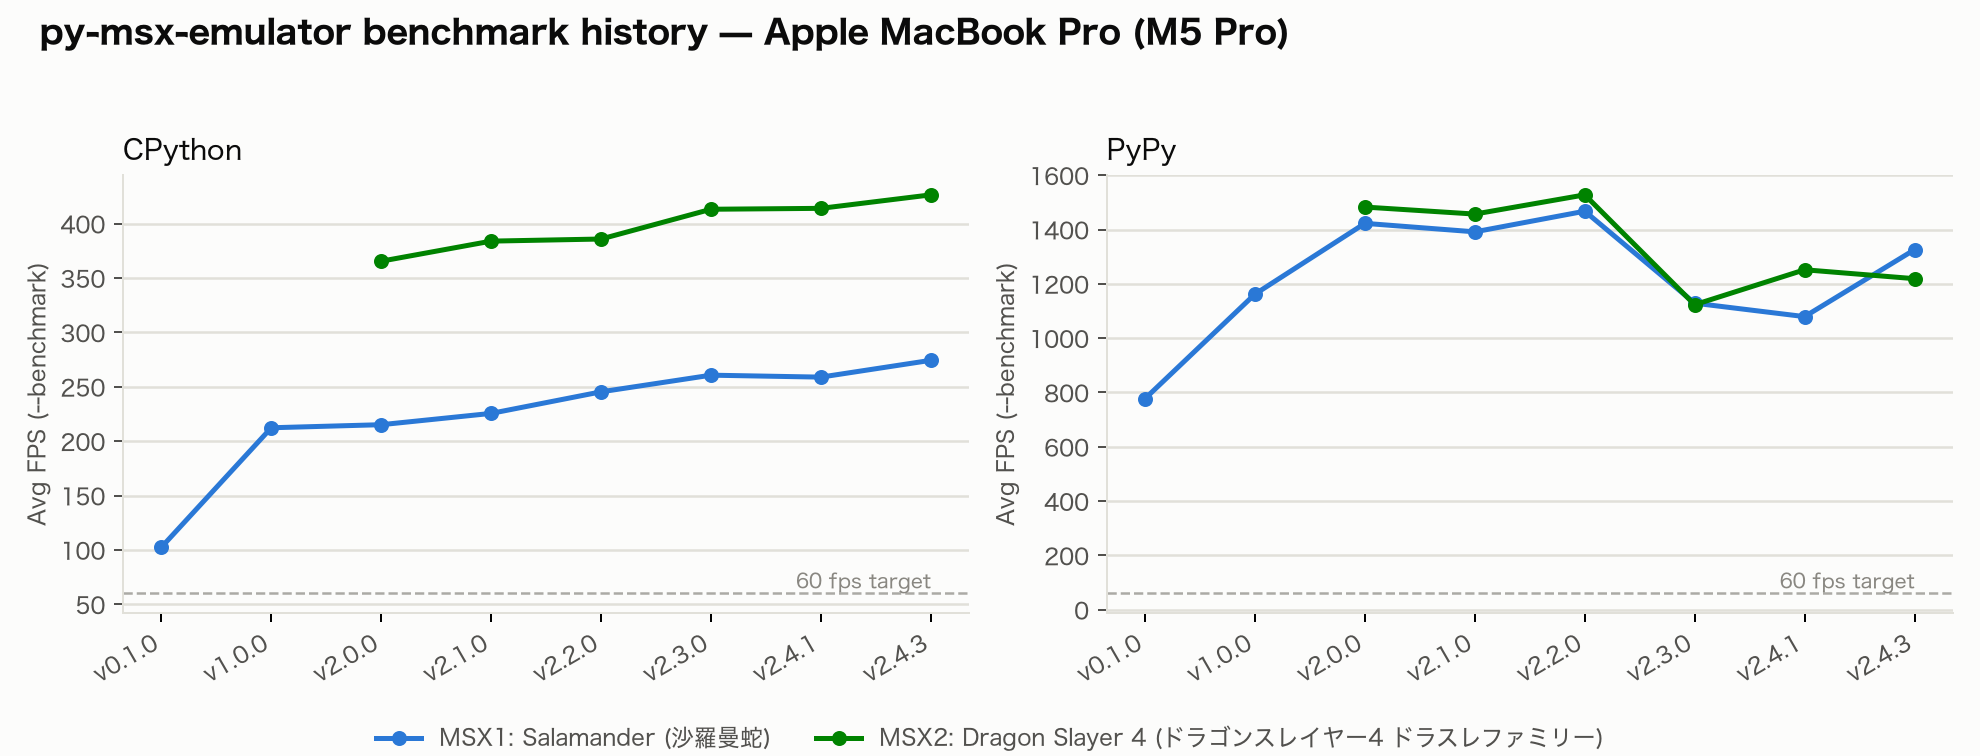
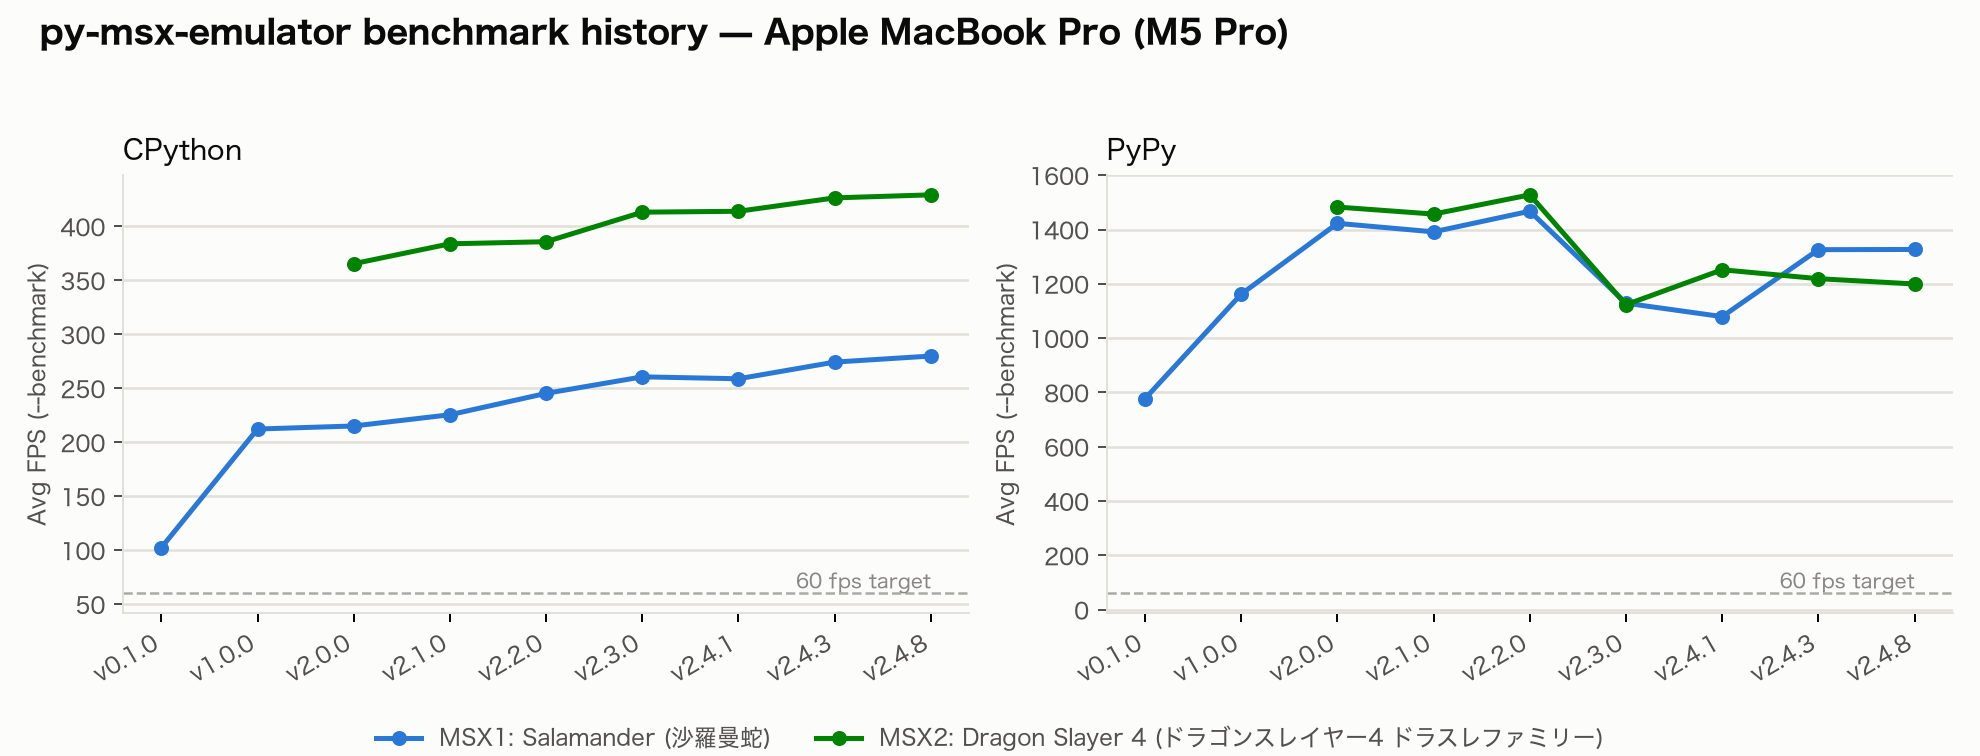
docs(readme): add v2.4.8 history, bump test count to 1740
Bump test count to 1740 and set pyproject's version to 2.4.8 (it had
been left at the initial 0.1.0 and did not track the released version
at all). Re-measure avg FPS on both benchmark platforms after the
render-frame-at-vblank change and regenerate the benchmark-history
charts through v2.4.8 with scripts/plot_benchmark_history.py.

diff --git a/README.md b/README.md
@@ -5,7 +5,7 @@ by machine-readable component specifications.
 
 ![Python](https://img.shields.io/badge/python-3.10%2B-blue)
 ![License](https://img.shields.io/badge/license-MIT-green)
-![Tests](https://img.shields.io/badge/tests-1737%20passing-brightgreen)
+![Tests](https://img.shields.io/badge/tests-1740%20passing-brightgreen)
 
 [日本語版 README はこちら](README_ja.md)
 
@@ -351,19 +351,19 @@ score.
 
 | Platform | Runtime | Game | Avg FPS (`--benchmark`) | vs. 60 fps target |
 | --- | --- | --- | --- | --- |
-| Apple MacBook Pro (M5 Pro) | CPython 3.12.13 | MSX1: Salamander (KonamiSCC) | 274.32 | ~4.6× |
-| Apple MacBook Pro (M5 Pro) | CPython 3.12.13 | MSX2: Dragon Slayer 4 (ASCII8) | 426.45 | ~7.1× |
-| Apple MacBook Pro (M5 Pro) | PyPy 7.3.19 (Python 3.10.16) | MSX1: Salamander (KonamiSCC) | 1325.83 | ~22.1× |
-| Apple MacBook Pro (M5 Pro) | PyPy 7.3.19 (Python 3.10.16) | MSX2: Dragon Slayer 4 (ASCII8) | 1219.03 | ~20.3× |
-| Raspberry Pi 5 | CPython 3.12.13 | MSX1: Salamander (KonamiSCC) | 71.61 | ~1.2× |
-| Raspberry Pi 5 | CPython 3.12.13 | MSX2: Dragon Slayer 4 (ASCII8) | 108.23 | ~1.8× |
-| Raspberry Pi 5 | PyPy 7.3.19 (Python 3.10.16) | MSX1: Salamander (KonamiSCC) | 297.14 | ~5.0× |
-| Raspberry Pi 5 | PyPy 7.3.19 (Python 3.10.16) | MSX2: Dragon Slayer 4 (ASCII8) | 306.94 | ~5.1× |
+| Apple MacBook Pro (M5 Pro) | CPython 3.12.13 | MSX1: Salamander (KonamiSCC) | 279.93 | ~4.7× |
+| Apple MacBook Pro (M5 Pro) | CPython 3.12.13 | MSX2: Dragon Slayer 4 (ASCII8) | 429.26 | ~7.2× |
+| Apple MacBook Pro (M5 Pro) | PyPy 7.3.19 (Python 3.10.16) | MSX1: Salamander (KonamiSCC) | 1326.61 | ~22.1× |
+| Apple MacBook Pro (M5 Pro) | PyPy 7.3.19 (Python 3.10.16) | MSX2: Dragon Slayer 4 (ASCII8) | 1199.55 | ~20.0× |
+| Raspberry Pi 5 | CPython 3.12.13 | MSX1: Salamander (KonamiSCC) | 72.55 | ~1.2× |
+| Raspberry Pi 5 | CPython 3.12.13 | MSX2: Dragon Slayer 4 (ASCII8) | 108.13 | ~1.8× |
+| Raspberry Pi 5 | PyPy 7.3.19 (Python 3.10.16) | MSX1: Salamander (KonamiSCC) | 294.67 | ~4.9× |
+| Raspberry Pi 5 | PyPy 7.3.19 (Python 3.10.16) | MSX2: Dragon Slayer 4 (ASCII8) | 299.99 | ~5.0× |
 
 Every combination tested clears the raw 60 fps target. The tightest margin is
 Raspberry Pi 5 with CPython running Salamander (MSX1, KonamiSCC mapper — the
 heaviest rendering/audio load among the target titles) at ~1.2×; PyPy raises the
-same case to ~5.0×. On hardware weaker than a Raspberry Pi 5, or under a heavier
+same case to ~4.9×. On hardware weaker than a Raspberry Pi 5, or under a heavier
 title, a run can still drop below 60 fps — in which case the game runs in slow
 motion at a rate proportional to the achieved frame rate, and audio degrades
 (clicks or silence) because samples are generated per-frame while the audio
@@ -379,7 +379,7 @@ PyPy figures as broadly indicative rather than exact.
 
 ### Benchmark history
 
-Avg FPS (`--benchmark`) from v0.1.0 through v2.4.3, per platform and runtime:
+Avg FPS (`--benchmark`) from v0.1.0 through v2.4.8, per platform and runtime:
 
 ![Benchmark history on Apple MacBook Pro (M5 Pro)](assets/bench-history-m5pro.png)
 
@@ -827,7 +827,7 @@ their device YAML are skipped at load time with a warning.
 
 ## Running tests
 
-The test suite covers all major components with 1737 tests spanning unit tests
+The test suite covers all major components with 1740 tests spanning unit tests
 for individual opcodes and hardware registers, integration tests that wire
 multiple components together, and scenario-level tests whose conditions are
 derived directly from the component specs.
@@ -889,7 +889,7 @@ py-msx-emulator/
 ├── saves/                 # Save states and screenshots (created at runtime)
 ├── openspec/
 │   └── specs/             # Component specifications (not included in the public repository)
-├── tests/                 # Test suite — 1737 tests
+├── tests/                 # Test suite — 1740 tests
 ├── requirements.txt       # Runtime dependencies
 ├── requirements-dev.txt   # Development dependencies
 └── pyproject.toml         # Project metadata and tool configuration
@@ -950,6 +950,7 @@ MIT — see [LICENSE](LICENSE).
 
 ## History
 
+- **v2.4.8** (2026-08-08) — Render V9938 frames at the start of vertical blanking instead of after the whole scanline loop. The VBlank IRQ is raised from within that loop, so the renderer previously read VRAM the game's VBlank ISR had already rewritten — sprite attributes and name tables appeared one frame early while display registers came from the correct frame-start snapshot. The visible result was a one-frame tear on titles that update VRAM and a display register in the same ISR (e.g. one-dot sprite jitter, and a seven-dot jump on 8-dot boundaries, with R#18 fine horizontal scrolling). MSX1/TMS9918A machines are unaffected. Also fix Ctrl-C during the active display falling through into the VBlank segment instead of ending the frame, and speed up the debugger's per-instruction loop by ~9%.
 - **v2.4.7** (2026-08-05) — Extend `py_emulator.yaml`: add `slot2`/`mapper2` (slot 2 cartridge defaults) and `frame_skip` (`auto`/`none` toggle) config keys, resolved with the same built-in-default < config < CLI precedence as `mapper`/`speed`/`fmpac`; add a `keyboard_joystick.buttons` section that lets each Joy1 keyboard-emulation function (`up`/`down`/`left`/`right`/`trigger_a`/`trigger_b`) be bound to a single key, replacing that function's built-in default key(s).
 - **v2.4.6** (2026-08-05) — Add support for the `GameMaster2` ROM database mapper type (a new `GameMaster2Mapper`: Konami-style 128 KB ROM with 8 KB battery-backed SRAM, each bank register selecting a ROM page or a 4 KB SRAM half mirrored across the 8 KB window, SRAM writable at 0xB000–0xBFFF). Reconcile `--mapper`/config `mapper:` accepted names with the loader's supported set (previously missing `Page2`/`0x4000`/`0x8000`/`KoeiSRAM32`).
 - **v2.4.5** (2026-08-04) — Add support for four previously-unsupported ROM database mapper types: `Page2`/`0x4000`/`0x8000` (a new `FixedPageMapper`: ROM visible only at a fixed base address, rest of the cartridge region open bus) and `KoeiSRAM32` (a new `KoeiSRAM32Mapper`: ASCII8 with 32 KB battery-backed SRAM, extending the SRAM-selectable window set to include 0x4000).
